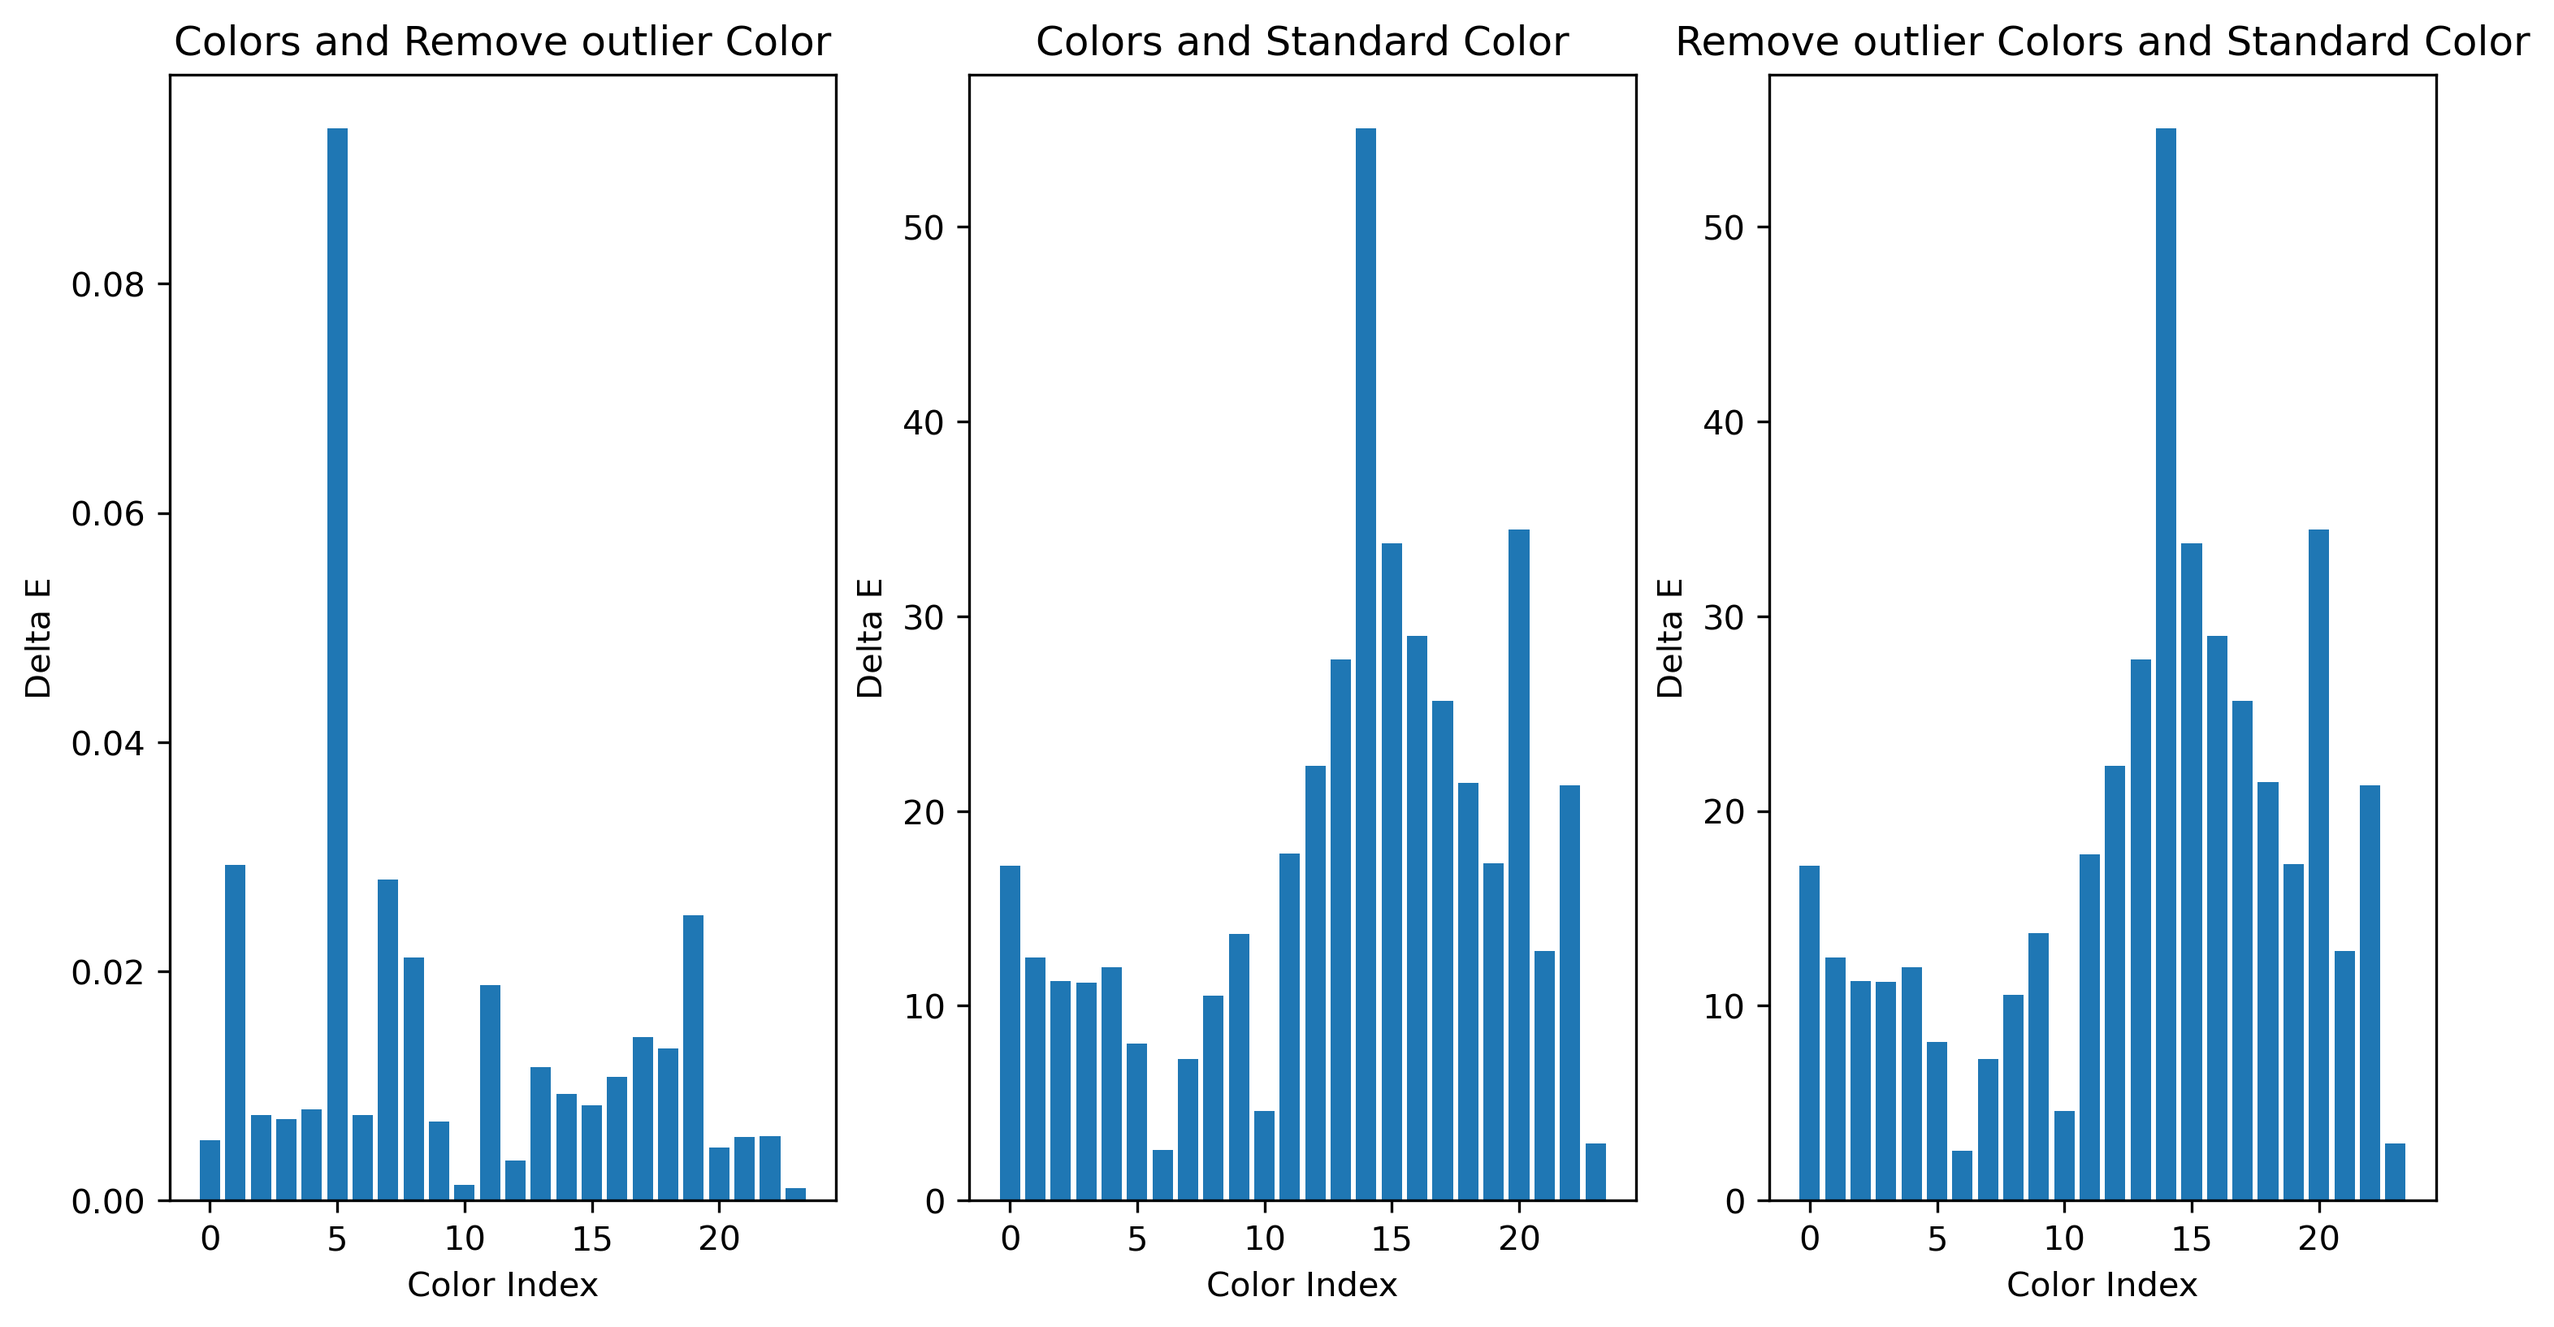
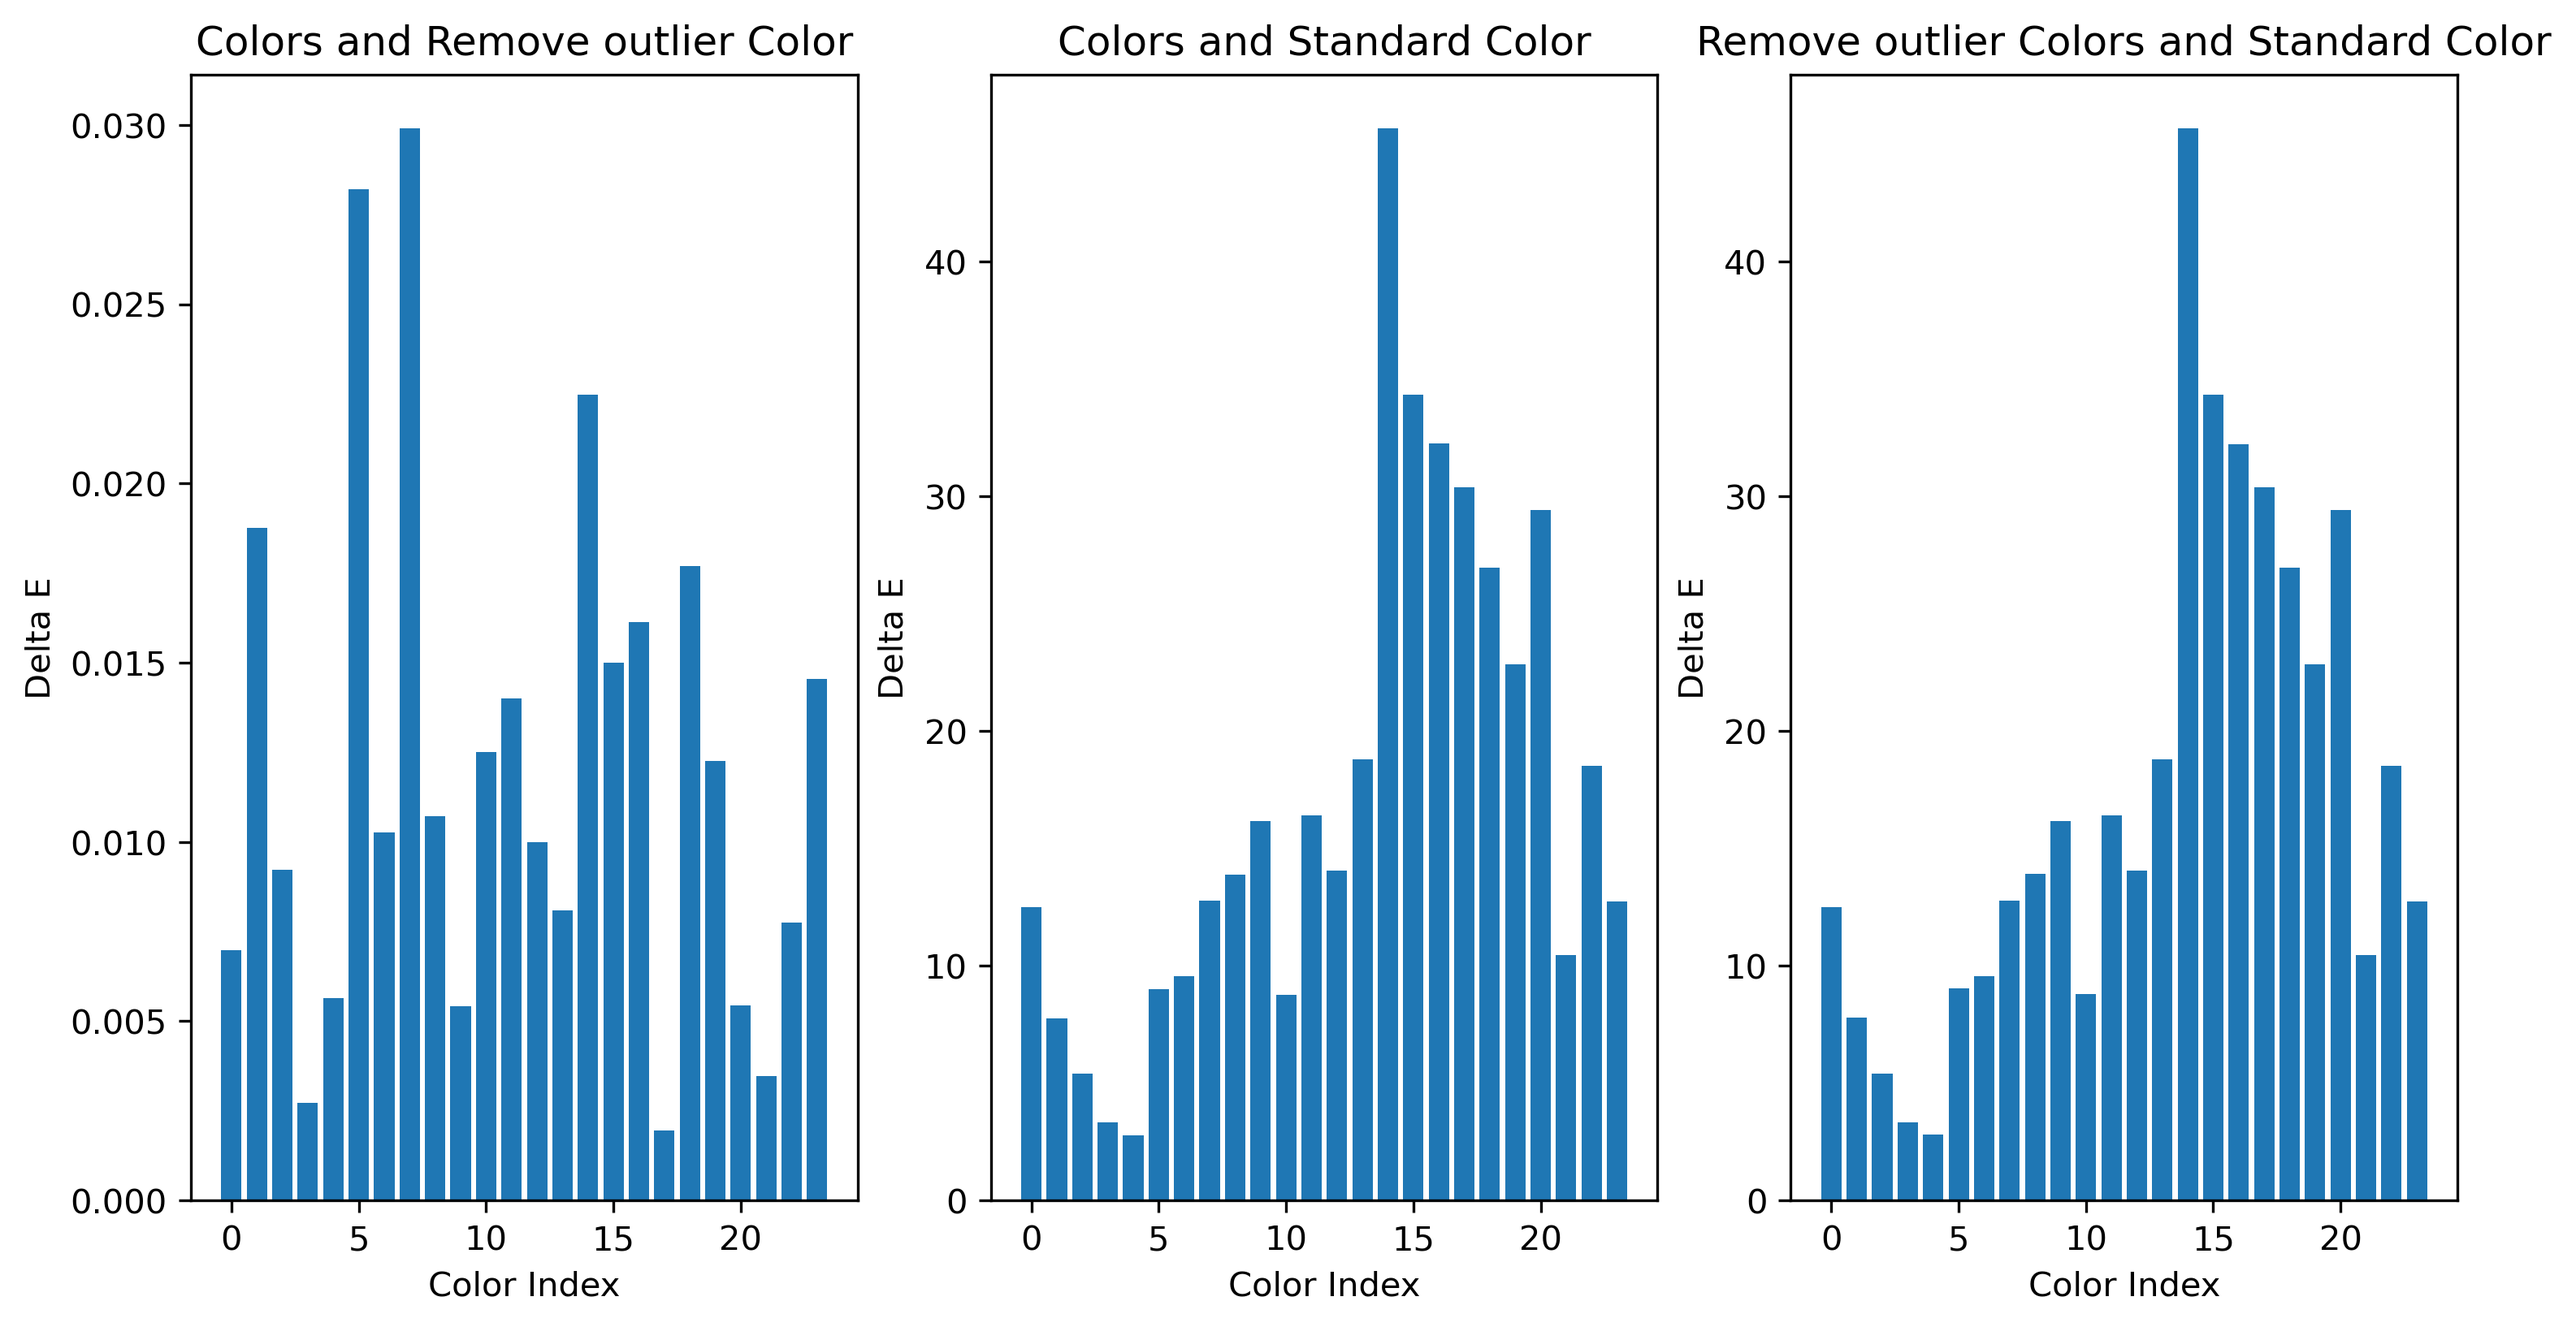
fix:fix pyplot display

Changed region(s): [[0.0312, 0.0, 0.9663, 0.9988], [0.4052, 0.0, 0.6234, 0.0624], [0.7793, 0.9364, 0.8728, 0.9988]]

diff --git a/AnalyzeDisplay.py b/AnalyzeDisplay.py
@@ -117,8 +117,8 @@ class ColorBoardDeltaECanvas(AnalyzeCanvas):
 
     def compute_initial_figure(self):
         self.axes1.set_title('Colors and Remove outlier Color')
-        self.axes2.set_title('k-means_clean')
-        self.axes3.set_title('original')
+        self.axes2.set_title('Colors and Standard Color')
+        self.axes3.set_title('Remove outlier Colors and Standard Color')
         self.axes1.text(0.5, 0.5, 'No', 
                         fontsize=40, ha='center',
                         va='center', color='red')
@@ -139,3 +139,10 @@ class ColorBoardDeltaECanvas(AnalyzeCanvas):
         self.set_subplot_properties(self.axes1, 'Colors and Remove outlier Color', color_indices, delta_e_rgb_rgbc)
         self.set_subplot_properties(self.axes2, 'Colors and Standard Color', color_indices, delta_e_rgb_std)
         self.set_subplot_properties(self.axes3, 'Remove outlier Colors and Standard Color', color_indices, delta_e_rgbc_std)
+
+        self.axes1.bar(color_indices, delta_e_rgb_rgbc, color='#2894FF')
+        self.axes2.bar(color_indices, delta_e_rgb_std, color='#2894FF')
+        self.axes3.bar(color_indices, delta_e_rgbc_std, color='#2894FF')
+
+        plt.tight_layout()
+        self.draw()
